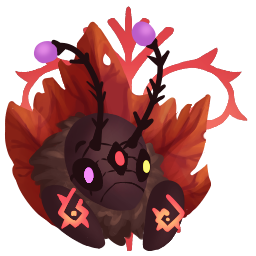
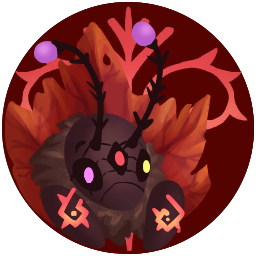
fix(ui): add sidebar branding and main menu artwork

diff --git a/src/main/java/com/seqwawa/seq/ui/WorldMapScreen.java b/src/main/java/com/seqwawa/seq/ui/WorldMapScreen.java
@@ -1203,7 +1203,8 @@ public class WorldMapScreen extends Screen implements MinecraftGuiOverlay {
         SidebarLayout layout = sidebarLayout();
         canvas.fillRect(0, 0, SIDEBAR_WIDTH, screenHeight, color(MAP_SIDEBAR));
         canvas.fillRect(0, 0, SIDEBAR_WIDTH, SIDEBAR_HEADER_HEIGHT, color(MAP_HEADER));
-        drawText(canvas, SIDEBAR_WIDTH / 2f, 22, 18, "Sequoia Map", color(MAP_TITLE), TextAlignment.CENTER);
+        SequoiaUiStyle.drawSidebarTitle(canvas, SeqClient.getFontManager().getSelectedFont(),
+                SIDEBAR_WIDTH, "Sequoia Map", 18, color(MAP_TITLE));
 
         drawButton(canvas, PADDING, layout.backY(), SIDEBAR_WIDTH - PADDING * 2, BUTTON_HEIGHT, "Back", false);
         drawButton(canvas, PADDING, layout.centerY(), SIDEBAR_WIDTH - PADDING * 2, BUTTON_HEIGHT, centerPlayerButtonLabel(), false);
@@ -1291,7 +1292,8 @@ public class WorldMapScreen extends Screen implements MinecraftGuiOverlay {
         WorldEventSidebarLayout layout = worldEventSidebarLayout();
         canvas.fillRect(0, 0, SIDEBAR_WIDTH, screenHeight, color(MAP_SIDEBAR));
         canvas.fillRect(0, 0, SIDEBAR_WIDTH, SIDEBAR_HEADER_HEIGHT, color(MAP_HEADER));
-        drawText(canvas, SIDEBAR_WIDTH / 2f, 22, 18, "Sequoia Map", color(MAP_TITLE), TextAlignment.CENTER);
+        SequoiaUiStyle.drawSidebarTitle(canvas, SeqClient.getFontManager().getSelectedFont(),
+                SIDEBAR_WIDTH, "Sequoia Map", 18, color(MAP_TITLE));
 
         drawButton(canvas, PADDING, layout.backY(), SIDEBAR_WIDTH - PADDING * 2, BUTTON_HEIGHT, "Back", false);
         drawButton(canvas, PADDING, layout.centerY(), SIDEBAR_WIDTH - PADDING * 2, BUTTON_HEIGHT, centerPlayerButtonLabel(), false);
@@ -1342,7 +1344,8 @@ public class WorldMapScreen extends Screen implements MinecraftGuiOverlay {
         sidebarScroll = clampSidebarScroll(sidebarScroll, screenHeight);
         canvas.fillRect(0, 0, SIDEBAR_WIDTH, screenHeight, color(MAP_SIDEBAR));
         canvas.fillRect(0, 0, SIDEBAR_WIDTH, SIDEBAR_HEADER_HEIGHT, color(MAP_HEADER));
-        drawText(canvas, SIDEBAR_WIDTH / 2f, 22, 18, "Sequoia Map", color(MAP_TITLE), TextAlignment.CENTER);
+        SequoiaUiStyle.drawSidebarTitle(canvas, SeqClient.getFontManager().getSelectedFont(),
+                SIDEBAR_WIDTH, "Sequoia Map", 18, color(MAP_TITLE));
         drawButton(canvas, PADDING, layout.backY(), SIDEBAR_WIDTH - PADDING * 2, BUTTON_HEIGHT, "Back", false);
         drawButton(canvas, PADDING, layout.centerY(), SIDEBAR_WIDTH - PADDING * 2, BUTTON_HEIGHT, centerPlayerButtonLabel(), false);
         drawMapModeControl(canvas, layout.modeY());

diff --git a/src/main/java/com/seqwawa/seq/ui/SequoiaUiStyle.java b/src/main/java/com/seqwawa/seq/ui/SequoiaUiStyle.java
@@ -4,12 +4,35 @@ import static com.seqwawa.seq.managers.ThemeManager.color;
 import static com.seqwawa.seq.ui.theme.UiColor.*;
 
 import java.awt.Color;
+import com.seqwawa.seq.managers.AssetManager;
+import com.seqwawa.seq.utils.rendering.UiCanvas;
+import com.seqwawa.seq.utils.rendering.UiRenderer;
 
 /** Shared navigation and search conventions, matching Party Finder. */
 final class SequoiaUiStyle {
     private static final float SEARCH_BAR_WIDTH = 140;
 
     private SequoiaUiStyle() {}
+
+    static void drawSidebarTitle(UiCanvas canvas, String font, float sidebarWidth) {
+        drawSidebarTitle(canvas, font, sidebarWidth, "Sequoia", 16, color(ACCENT_PRIMARY));
+    }
+
+    static void drawSidebarTitle(
+            UiCanvas canvas, String font, float sidebarWidth, String title, float fontSize, Color textColor) {
+        var icon = AssetManager.getAssetsMap().get("icon");
+        boolean hasIcon = icon != null && icon.getImage() != null;
+        float iconHeight = 24;
+        float iconWidth = hasIcon ? iconHeight * icon.getWidth() / icon.getHeight() : 0;
+        float gap = hasIcon ? 6 : 0;
+        float textWidth = UiRenderer.measureText(title, font, fontSize).width();
+        float startX = (sidebarWidth - iconWidth - gap - textWidth) / 2f;
+        if (hasIcon) {
+            canvas.drawImage(icon.getImage(), startX, 22 - iconHeight / 2f, iconWidth, iconHeight, 1f);
+        }
+        canvas.drawText(title, startX + iconWidth + gap, 22, new UiCanvas.TextStyle(
+                font, fontSize, textColor, UiCanvas.HorizontalAlign.LEFT, UiCanvas.VerticalAlign.MIDDLE));
+    }
 
     static float searchWidth(float availableWidth) {
         return Math.max(0, Math.min(SEARCH_BAR_WIDTH, availableWidth));

diff --git a/src/main/java/com/seqwawa/seq/ui/SequoiaScreen.java b/src/main/java/com/seqwawa/seq/ui/SequoiaScreen.java
@@ -4,6 +4,7 @@ import static com.seqwawa.seq.managers.ThemeManager.color;
 import static com.seqwawa.seq.ui.theme.UiColor.*;
 
 import java.awt.Color;
+import com.seqwawa.seq.managers.AssetManager;
 import net.minecraft.client.gui.GuiGraphics;
 import net.minecraft.client.gui.screens.Screen;
 import net.minecraft.client.input.MouseButtonEvent;
@@ -43,6 +44,16 @@ public class SequoiaScreen extends Screen {
 
             // Dark background
             canvas.fillRect(0, 0, screenWidth, screenHeight, color(BACKGROUND_MODAL_OVERLAY));
+
+            // Fit the artwork against the left edge without stretching or cropping it.
+            var artwork = AssetManager.getAssetsMap().get("seqmod_bg");
+            if (artwork != null && artwork.getImage() != null) {
+                float scale = Math.min(screenWidth / 2f / artwork.getWidth(), screenHeight / artwork.getHeight());
+                float artworkWidth = artwork.getWidth() * scale;
+                float artworkHeight = artwork.getHeight() * scale;
+                canvas.drawImage(artwork.getImage(), 0, (screenHeight - artworkHeight) / 2f,
+                        artworkWidth, artworkHeight, 102 / 255f);
+            }
 
             // Title
             String fontName = SeqClient.getFontManager().getSelectedFont();

diff --git a/src/main/java/com/seqwawa/seq/ui/ThemeEditorScreen.java b/src/main/java/com/seqwawa/seq/ui/ThemeEditorScreen.java
@@ -130,15 +130,7 @@ public final class ThemeEditorScreen extends Screen {
 
     private void renderSidebar(UiCanvas canvas, String font, float screenHeight) {
         canvas.fillRect(0, 0, SIDEBAR_WIDTH, screenHeight, color(BACKGROUND_SIDEBAR));
-        drawText(
-                canvas,
-                font,
-                16,
-                color(ACCENT_PRIMARY),
-                UiCanvas.HorizontalAlign.CENTER,
-                SIDEBAR_WIDTH / 2f,
-                22,
-                "Sequoia");
+        SequoiaUiStyle.drawSidebarTitle(canvas, font, SIDEBAR_WIDTH);
         canvas.fillRect(10, 40, SIDEBAR_WIDTH - 20, 1, color(ACCENT_PRIMARY_DARK));
         canvas.fillRect(10, 50, SIDEBAR_WIDTH - 20, 22, SequoiaUiStyle.sidebarButtonColor(true, false));
         drawText(

diff --git a/src/main/java/com/seqwawa/seq/ui/PartyFinderScreen.java b/src/main/java/com/seqwawa/seq/ui/PartyFinderScreen.java
@@ -419,15 +419,7 @@ public class PartyFinderScreen extends Screen implements PartyAccessor {
 
     private void renderSidebar(UiCanvas canvas, String fontName, float screenHeight) {
         canvas.fillRect(0, 0, SIDEBAR_WIDTH, screenHeight, color(BACKGROUND_SIDEBAR));
-        drawText(
-                canvas,
-                fontName,
-                SIDEBAR_TITLE_SIZE,
-                color(ACCENT_PRIMARY),
-                SIDEBAR_WIDTH / 2f,
-                22,
-                "Sequoia",
-                UiCanvas.HorizontalAlign.CENTER);
+        SequoiaUiStyle.drawSidebarTitle(canvas, fontName, SIDEBAR_WIDTH);
         canvas.fillRect(SIDEBAR_PADDING, 40, SIDEBAR_WIDTH - SIDEBAR_PADDING * 2, 1, color(ACCENT_PRIMARY_DARK));
 
         float btnX = SIDEBAR_PADDING;

diff --git a/src/main/java/com/seqwawa/seq/ui/ConnectionScreen.java b/src/main/java/com/seqwawa/seq/ui/ConnectionScreen.java
@@ -72,8 +72,7 @@ public class ConnectionScreen extends Screen {
 
     private void renderSidebar(UiCanvas canvas, String fontName, float screenHeight) {
         canvas.fillRect(0, 0, SIDEBAR_WIDTH, screenHeight, color(BACKGROUND_SIDEBAR));
-        drawText(canvas, fontName, SIDEBAR_TITLE_SIZE, color(ACCENT_PRIMARY),
-                UiCanvas.HorizontalAlign.CENTER, SIDEBAR_WIDTH / 2f, 22, "Sequoia");
+        SequoiaUiStyle.drawSidebarTitle(canvas, fontName, SIDEBAR_WIDTH);
 
         canvas.fillRect(SIDEBAR_PADDING, 40, SIDEBAR_WIDTH - SIDEBAR_PADDING * 2, 1, color(ACCENT_PRIMARY_DARK));
 

diff --git a/src/main/java/com/seqwawa/seq/ui/SettingsScreen.java b/src/main/java/com/seqwawa/seq/ui/SettingsScreen.java
@@ -233,8 +233,7 @@ public class SettingsScreen extends Screen {
             canvas.fillRect(0, 0, SIDEBAR_WIDTH, screenHeight, color(BACKGROUND_SIDEBAR));
 
             // Sidebar title
-            drawText(canvas, fontName, SIDEBAR_TITLE_SIZE, color(ACCENT_PRIMARY), UiCanvas.HorizontalAlign.CENTER,
-                    SIDEBAR_WIDTH / 2f, 22, "Sequoia");
+            SequoiaUiStyle.drawSidebarTitle(canvas, fontName, SIDEBAR_WIDTH);
 
             // Divider under title
             canvas.fillRect(SIDEBAR_PADDING, 40, SIDEBAR_WIDTH - SIDEBAR_PADDING * 2, 1, color(ACCENT_PRIMARY_DARK));

diff --git a/src/main/java/com/seqwawa/seq/managers/AssetManager.java b/src/main/java/com/seqwawa/seq/managers/AssetManager.java
@@ -20,6 +20,7 @@ public class AssetManager {
 
     private static final String[] ASSET_FILES = new String[] {
         "icon.png",
+        "seqmod_bg.png",
         "archer.png",
         "assassin.png",
         "warrior.png",

diff --git a/README.md b/README.md
@@ -216,6 +216,8 @@ Themed screens and controls preserve the alpha values from the active theme, inc
 fully transparent colors. Top-right header text uses the light primary accent (`accent.primary_hover`),
 and dividers use the dark primary accent (`accent.primary_dark`). Party Finder places the role selector
 next to New/Manage Party on the left and its title on the right; controls wrap when space is limited.
+Sidebar headers center the Sequoia icon and title together. The `/seq` menu fits `seqmod_bg.png`
+proportionally along its left side at 40% opacity (alpha 102).
 Sidebar navigation shares Partyfinder's active, hover, and idle colors.
 Search fields share its 140-unit width and shrink to fit when space is limited; drawing, text
 clipping, and click targets use the same width. Map search dropdown results may be wider to fit names.
